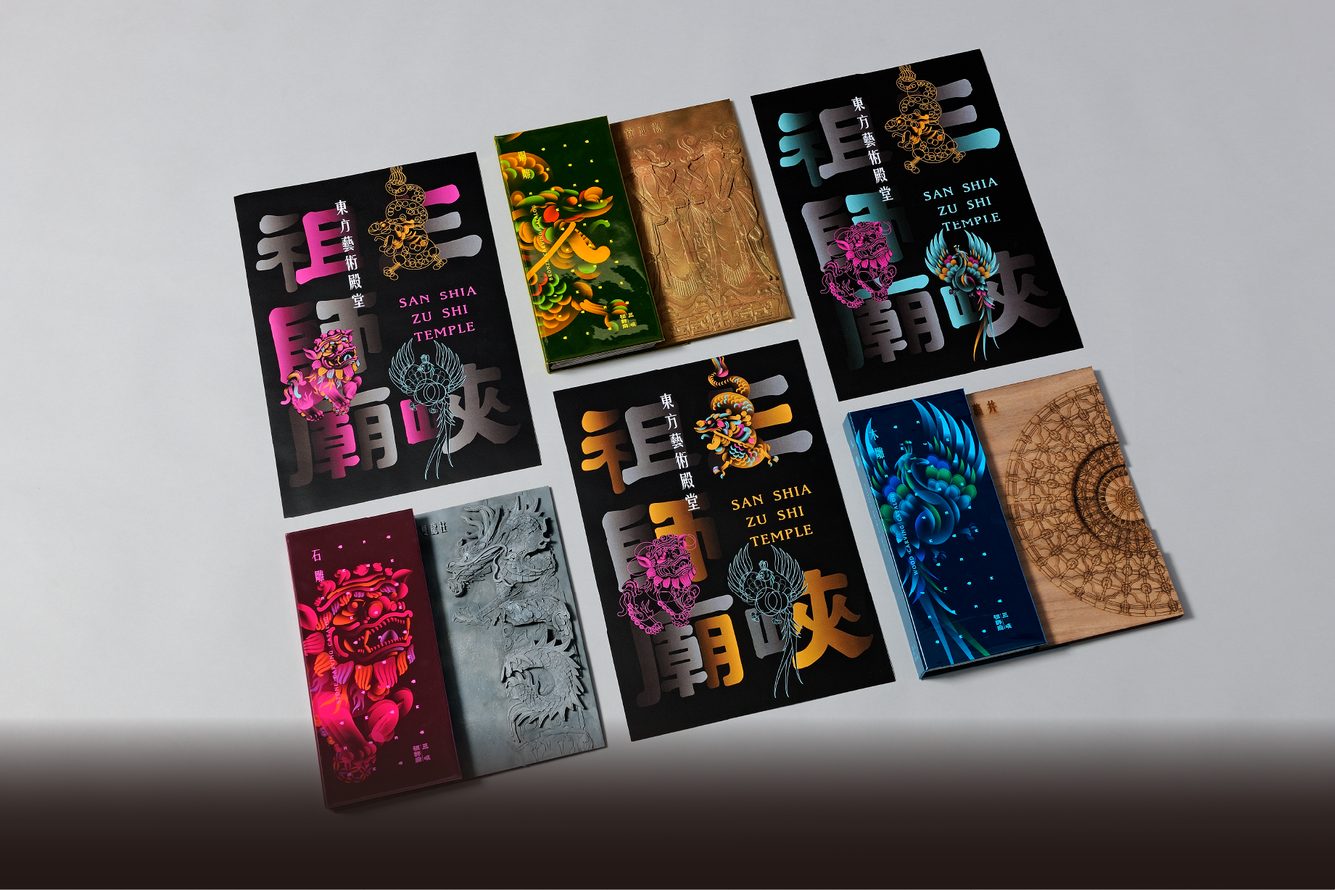
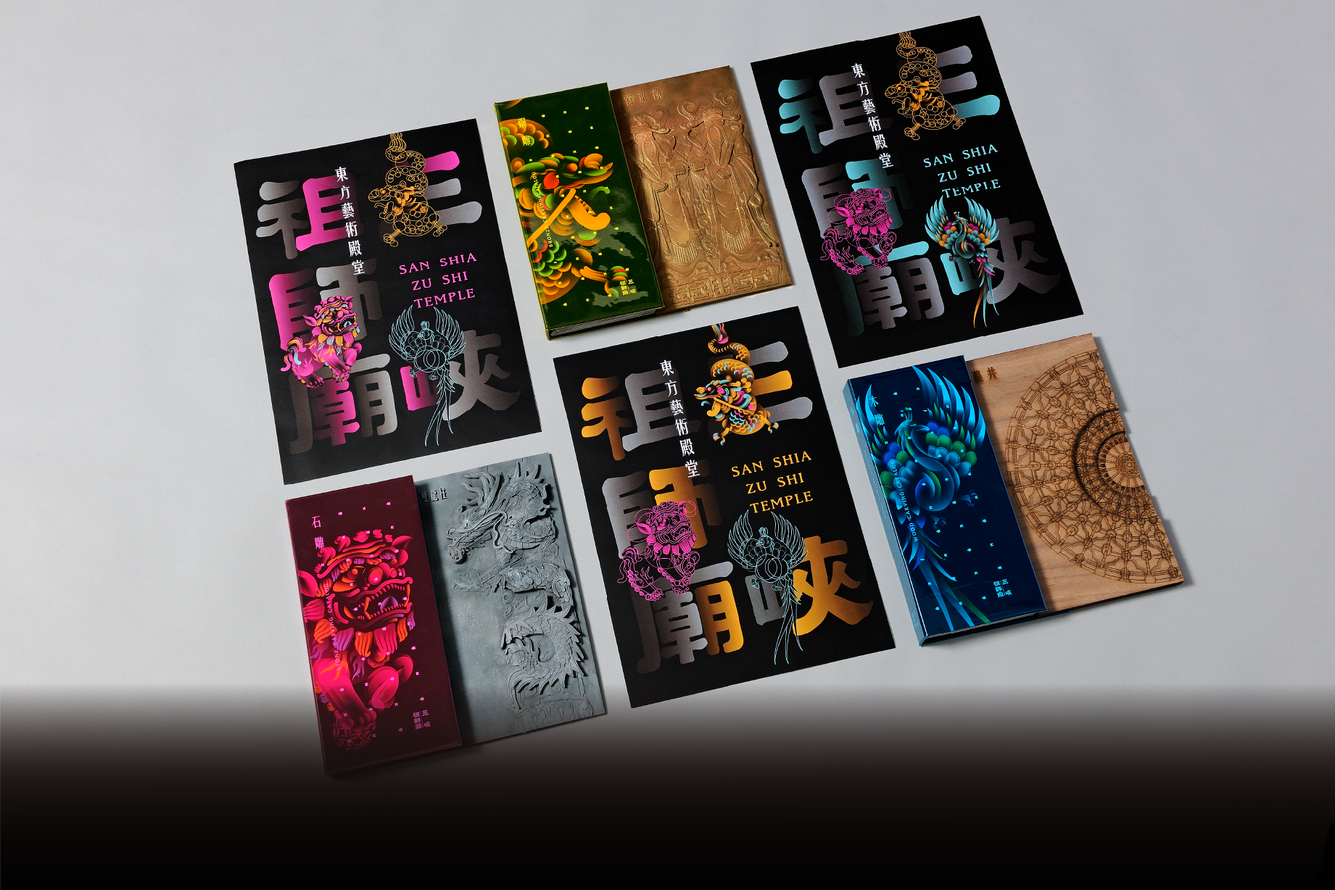
微調圖片黑色部分

diff --git a/test-window.js b/test-window.js
@@ -177,7 +177,7 @@ $(window).scroll(function () {
 })
 
 
-// dm
+// dm華過去變大
 
 $('.Direct-Mail-dragon-box').mouseenter(function () {
 
@@ -191,8 +191,6 @@ $('.Direct-Mail-dragon-box').mouseleave(function () {
 })
 
 
-
-
 $('.Direct-Mail-lion-box').mouseenter(function () {
 
     $(this).css('width', '320px')
@@ -203,7 +201,6 @@ $('.Direct-Mail-lion-box').mouseleave(function () {
     $(this).css('width', '300px')
 
 })
-
 
 
 $('.Direct-Mail-bird-box').mouseenter(function () {
@@ -220,7 +217,7 @@ $('.Direct-Mail-bird-box').mouseleave(function () {
 
 
 
-
+// dm點下去出現
 
 $('.Direct-Mail-dragon-box').click(function () {
 
